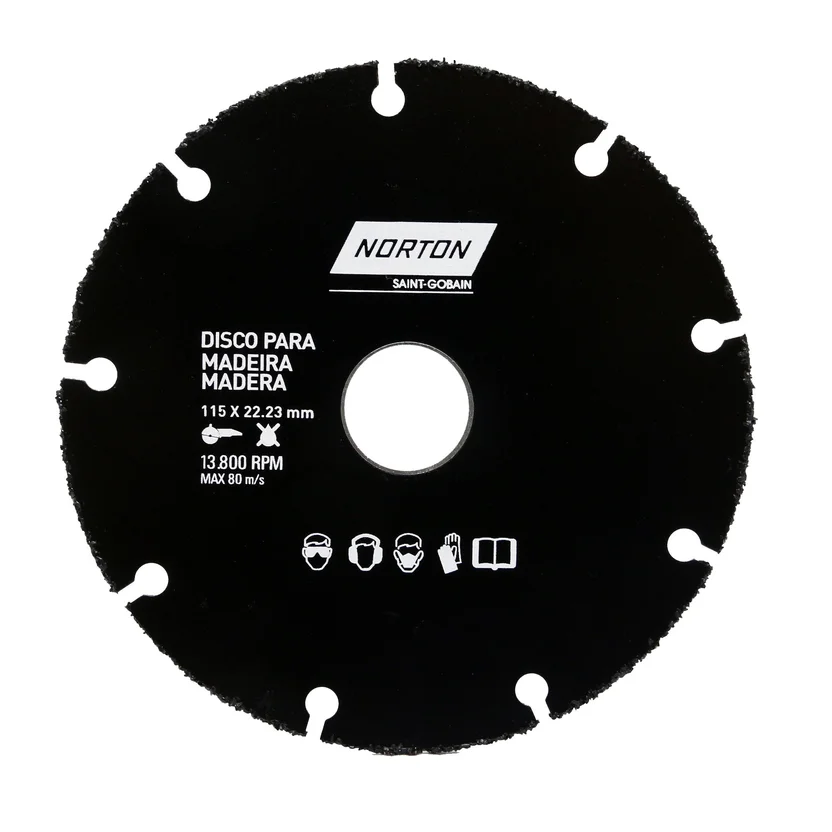
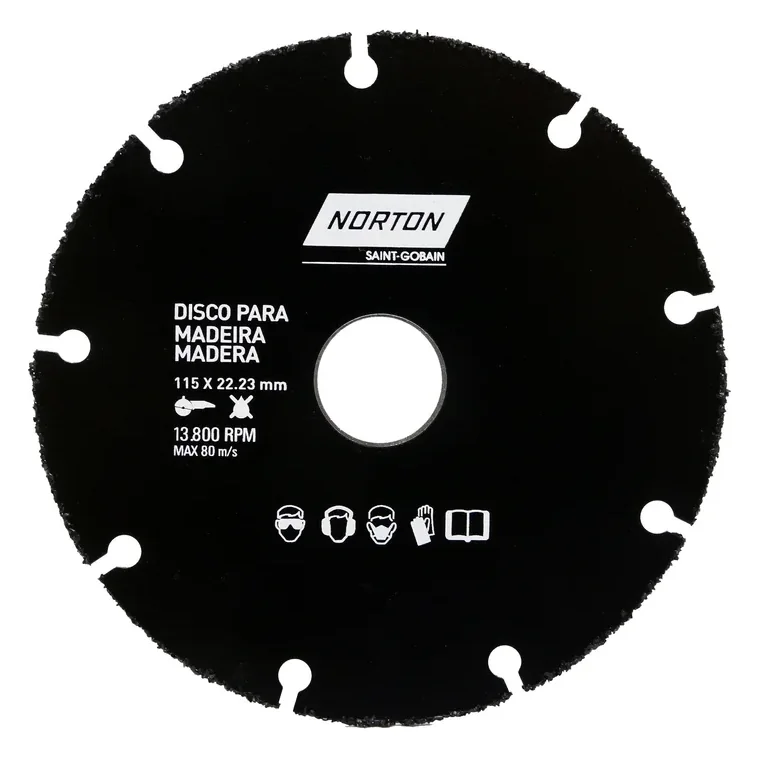
Nuevas fotos: felpa Esforza, guante carnaza, guante nylon M30N y disco madera Norton
Fotos suministradas por el cliente, recortadas y centradas en WebP.
FOTOS_VERSION pasa a 3 para evitar caché del navegador.

Claude-Session: https://claude.ai/code/session_019xdiNFMXb7KnLJv5GRmr3e

diff --git a/index.html b/index.html
@@ -681,7 +681,7 @@ var PRODUCTOS = [
 ];
 
 /* Súbelo en 1 cada vez que reemplaces fotos, para que los navegadores no muestren las anteriores */
-var FOTOS_VERSION = 2;
+var FOTOS_VERSION = 3;
 
 (function(){
   var FIN = new Date(CONFIG.fin).getTime();
